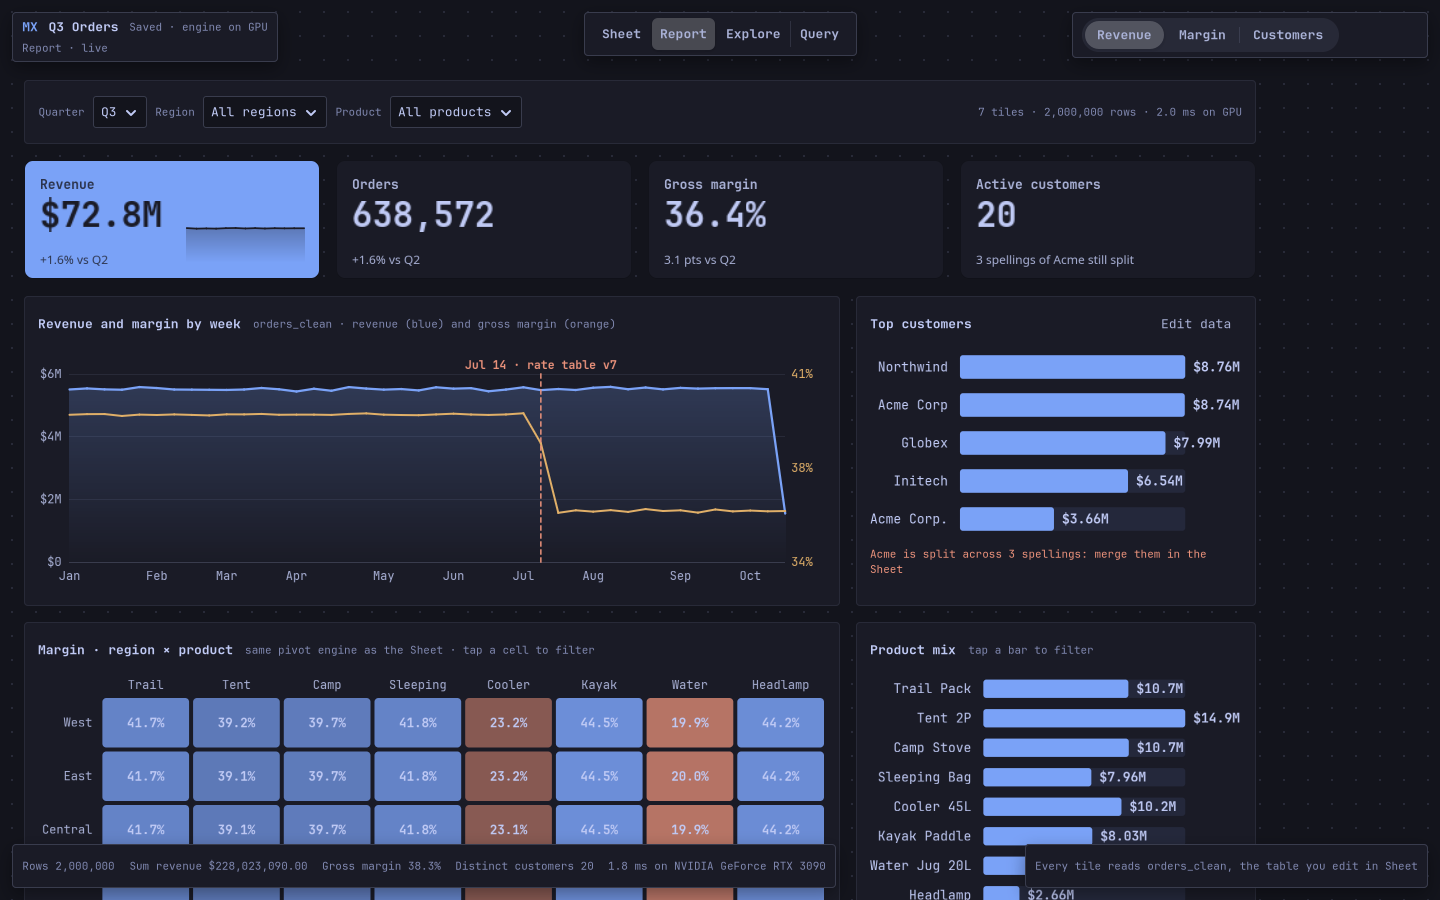
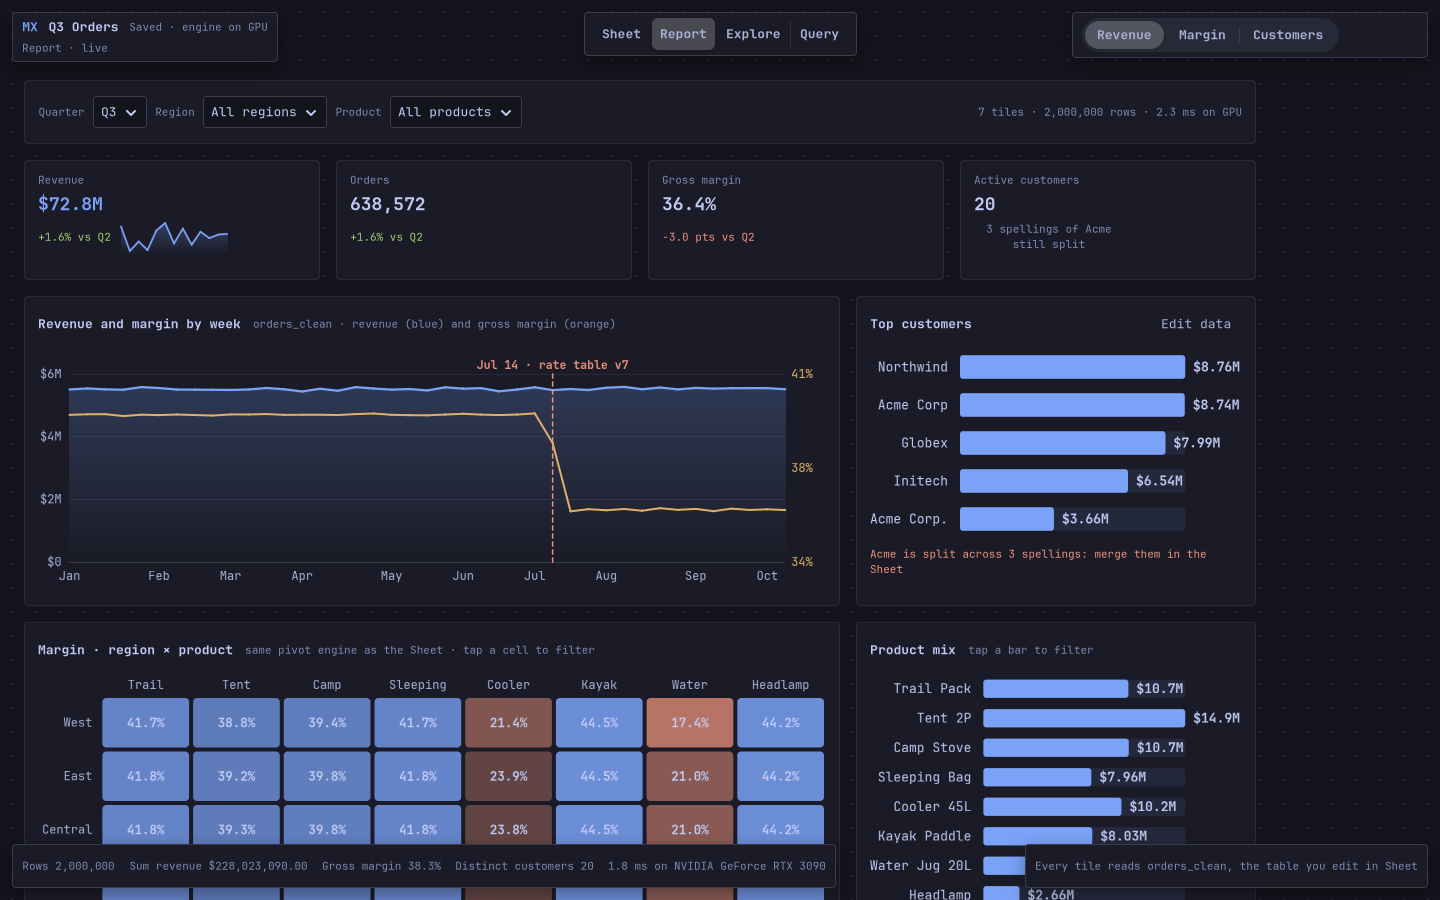
Goal 12 done: MX Studio's Report (report with the final full run: M1–M5 PASS), README showcase adds MX Studio's Sheet and Report

diff --git a/docs/report.md b/docs/report.md
@@ -1,33 +1,38 @@
-# Goal 11 report: MX Studio's Sheet, components first (2026-10-16)
+# Goal 12 report: MX Studio's Report, components first (2026-10-16 night)
 
-MX Studio's first screen, from the owner's handoff (`docs/mx-studio/`), on Linux and web: a transactions grid over a planted-story ledger, Pivot 1 and Chart 1 that follow every edit, an inspector (where the table comes from, what it feeds, your edits, Undo all), and an agent's finding (Acme Corp under three spellings) that merges in one undoable step. Built components-first: the grid, pivot and chart moved out of the Workbook into `mojoui/` and both apps use them.
+The Report mode from the owner's handoff (SCREENS.md §2) on Linux and web, on the same ledger the Sheet edits: filters, four KPIs against the previous quarter, revenue and margin by week with the Jul 14 rate-table marker, top customers, product mix, a margin heatmap, and "Worth a look": the engine's own finding (heavy parcels in the West lost 7.7 margin points after Jul 14) with the cause it found in those rows (Carrier A's freight rose to $14.20 an order) and a button that opens those rows in the Sheet.
 
-![MX Studio's Sheet on Linux](img/mxstudio-sheet.png)
+![MX Studio's Report on Linux (headless GTK; the web run is identical)](img/mxstudio-report.png)
 
-## Checks (full rebuild, headless)
+## Checks
 ```
-PASS  M1  mojoui/datagrid.mojo (GridSource) with its own test; the Workbook runs on it; goal 10's grid checks pass
-PASS  M2  PivotTable, ChartView, Card and Text tones in mojoui with a test; the Workbook uses them; the matrix shows them ✅ on Linux and web
-PASS  M3  ORDERS: 2000000 rows; Acme 398950 under 3 spellings; 286625 parcels at the flat $14.20 from Jul 14; 412 duplicates at ZIP 94110 · MARGIN: Q2 39.48% → Q3 36.44% (3.04 points)
-PASS  M4  the Sheet on both hosts: grid, Pivot 1, Chart 1, inspector, exact status; an in-place edit regroups the pivot and shows in Your edits; also at 20M rows
-PASS  M5  the agent finds 3 spellings with their rows; Merge regroups (20 → 18 customers) as one undoable step; identical on both hosts
-FAIL  M6  goal 10 M7: sort: margin 3846 ms (> 2500); goal 7 M2: STEP FAILED: ValueError('no Button #0')
+PASS  M1  KpiView, FindingCard, line markers and Heatmap in mojoui with tests; the matrix shows them ✅ on Linux and web
+PASS  M2  REPORT: worst fall West heavy 7.66 points on 96927 orders; Q3 KPIs = CPU
+PASS  M3  the Report on both hosts: filters, four KPIs, weekly revenue and margin (the marker proven in test_components), top customers, product mix, heatmap, 'Worth a look' with the cause it found; the West filter changes the KPIs
+PASS  M4  one engine: the Sheet's merge reaches the Report; Open the rows filters the Sheet to the finding's rows; a product bar filters the tiles; identical on both hosts
+PASS  M5  goal 11's checks (and goals 3–10's inside them) pass
 ```
-M6's two failures, run again on their own: the formula sort took 2.06 s (the machine was loaded by other projects' agents; it then got faster: formulas read only their own columns, 1.1 s), and goal 7's Android hello app passed from a cold emulator (the driver now waits up to 10 s for a view, as a person would). M6 runs again inside goal 12's final check.
 
-## Components added (docs/components.md)
+That is the final run from scratch (commit d46cd53). The run before it failed only M5 (goals 3–11 inside it), on three things fixed without touching a check:
+- MX Studio imported its own modules, which breaks goal 3's "apps import only mojoui" rule. They moved into `mojoui/` (D-126).
+- With no theme file the accent wasn't Tokyo Night's (D-127).
+- The README's Android row lost the word goal 7 looks for.
+
+Goal 6's lens also ran at 54 fps on that busy machine. Run alone it held 60.0 fps three times out of three, and it passed in the final run.
+
+## Components added
 | Component | Linux | Web | Used by |
 |---|---|---|---|
-| DataGrid (scroll bar, select, sort marker, resize, fit, sideways scroll, edit in place, header histograms) | ✅ | ✅ | Workbook, MX Studio |
-| PivotTable (native labels, totals, highlighted rows) | ✅ | ✅ | Workbook, MX Studio |
-| ChartView (Flint bars and lines, heatmaps, tap to select) | ✅ | ✅ | Workbook, MX Studio |
-| Card tones, Text tones | ✅ | ✅ | MX Studio |
+| KpiView (native labels + sparkline, tone set by the app) | ✅ | ✅ | MX Studio |
+| FindingCard (warning / resolved, actions, look again) | ✅ | ✅ | MX Studio (Sheet and Report) |
+| LineChart: second series (share) + event marker | ✅ | ✅ | MX Studio |
+| Heatmap (tap a cell) | ✅ | ✅ | MX Studio |
+
+## Proven against the CPU (tests/test_report.mojo)
+The anomaly group, its order count and its cause; weekly revenue and margin, the region × product heatmap, product shares and KPIs, with a region filter and a session edit (the GPU base plus the edit's delta).
 
 ## Review
-One round, NEEDS WORK; all must-fix and should-fix items addressed: GTK now follows tone changes (and both hosts report tones, so the checks see colours); merges in the engine follow chains and can't collide across columns (tested); Insert works (Pivot, Chart, Text, Formula, Agent; Table explains it needs Explore); the inspector floats in an island; chart taps use the drawn size; histograms follow edits; tests use golden counts and compute expectations independently.
-
-## What waits for MX frame
-`docs/plans/needs-mxframe.md`: Query (SQL), Explore (pipelines and joins), file readers, multiple tables, versions, out-of-core. Skipped, not faked.
+One round, NEEDS WORK, all addressed: the finding no longer states a cause it didn't compute (D-122); the host checks now assert the KPIs (20 → 18 after a merge; filters change them); the marker test compares the chart with and without the marker; Q4 is compared over the same days (D-123); negative heatmap shares print right; KPI tones come from the app (D-124); the finder runs again only after edits.
 
 ## Next
-Goal 12: the Report (built; its contract and checks next), `docs/plans/GOAL12.md`.
+Goal 13 (keys: arrows, typing, Escape in the grid), drafted in docs/plans/GOAL13.md. What waits for MX frame: docs/plans/needs-mxframe.md.

diff --git a/README.md b/README.md
@@ -30,6 +30,10 @@
 <td><a href="#the-hybrid-native-controls-plus-a-gpu-canvas"><img src="docs/img/lens-linux.jpg" alt="The Data Lens: 20 million points at 60 fps"></a><br><b>🔭 Data Lens</b> · 20 million points, 1.5 ms a frame on the GPU · <code>examples/lens/app.mojo</code></td>
 <td><a href="docs/android.md"><img src="docs/img/android-todo.png" alt="The todo app on Android, with real Android views" height="420"></a><br><b>🤖 Android</b> · the same todo file as real Android views · <code>examples/todo/app.mojo</code></td>
 </tr>
+<tr>
+<td><a href="docs/goals/11-report.md"><img src="docs/img/mxstudio-sheet.png" alt="MX Studio's Sheet: a ledger grid, a pivot and a chart that follow every edit, and an agent's finding"></a><br><b>🧪 MX Studio · Sheet</b> · a 2M-row ledger you edit in place; a finding merges three spellings of a customer · <code>examples/mxstudio</code></td>
+<td><a href="docs/report.md"><img src="docs/img/mxstudio-report.png" alt="MX Studio's Report: KPIs, revenue and margin by week with a marker, a heatmap, and the finding the engine made"></a><br><b>📈 MX Studio · Report</b> · the same ledger as a dashboard; the GPU finds why margin fell after Jul 14 · <code>examples/mxstudio</code></td>
+</tr>
 </table>
 
 **[Open the gallery →](https://abhisheksreesaila.github.io/mxapp/gallery/)** · [the two-minute Workbook walkthrough](docs/morning.md) · [Mojo in the browser: the wasm spike](docs/wasm.md)
@@ -39,11 +43,11 @@ Every ✅ below is run by `scripts/check` on that platform; 🔨 builds but hasn
 
 | Platform | ✅ proven | 🔨 built, not run | ❌ missing | Notes |
 |---|---|---|---|---|
-| 🐧 **Linux** (GTK 4) | 42 | 0 | 0 | every component, gesture and theme; your Omarchy theme |
-| 🌐 **Web** (FastHTML) | 42 | 0 | 0 | the same results as Linux, checked in Chromium |
-| 🤖 **Android** (views over JNI) | 19 | 10 | 13 | runs the classic controls on the emulator; the Workbook's new components not yet |
-| 🍎 **Mac** (AppKit) | 0 | 29 | 13 | builds and signs; not run on a Mac yet |
-| 📱 **iPhone** (UIKit) | 0 | 29 | 13 | builds and signs; not run on an iPhone yet |
+| 🐧 **Linux** (GTK 4) | 49 | 0 | 0 | every component, gesture and theme; your Omarchy theme |
+| 🌐 **Web** (FastHTML) | 49 | 0 | 0 | the same results as Linux, checked in Chromium |
+| 🤖 **Android** (views over JNI) | 19 | 11 | 19 | runs the classic controls on the emulator; the Workbook's new components not yet |
+| 🍎 **Mac** (AppKit) | 0 | 30 | 19 | builds and signs; not run on a Mac yet |
+| 📱 **iPhone** (UIKit) | 0 | 30 | 19 | builds and signs; not run on an iPhone yet |
 | ⚡ **GPU** | NVIDIA | | | Apple and phone GPUs use the CPU path for now |
 
 Measured on this machine: a page recompute in ~8 ms, a grid redraw in ~6 ms, a GPU group-by under 1 ms, a sort of 20M rows in 0.3–2 s.
@@ -59,7 +63,7 @@ Measured on this machine: a page recompute in ~8 ms, a grid redraw in ~6 ms, a G
 - 🌐 the web running **Mojo in WebAssembly** in the browser, and 🪟 Windows natively when Mojo ships there.
 
 **What's left to get there:**
-1. 🧩 Turn the Workbook's grid, pivot and chart wiring into real components (`docs/plans/datagrid.md`).
+1. 🧪 MX Studio's other modes: Explore, Query and the agent's tools (most wait for MX frame: `docs/plans/needs-mxframe.md`).
 2. ⌨ Keyboard events on every host (Escape, arrows, typing into a cell).
 3. 🤖 🍎 📱 Bring Board, Overlay, the new gestures and themes to Android, then run Mac and iPhone on real hardware.
 4. 🎨 Cell formatting, column-first (`docs/plans/formatting.md`).
